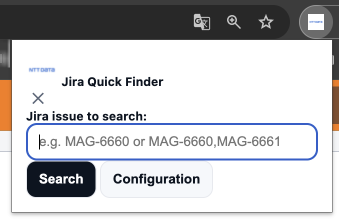
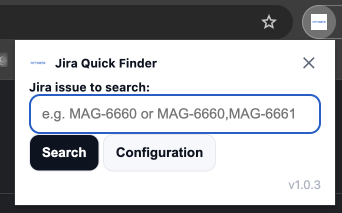
Added version on pop-up and changed the place of close button.

diff --git a/styles.css b/styles.css
@@ -61,12 +61,14 @@ input.input.project {
 }
 .btn.secondary { background: #f6f8fb; color: var(--fg); }
 
+/* Botón de cierre arriba derecha */
 .close {
   background: transparent;
   border: none;
   font-size: 16px;
   cursor: pointer;
   color: var(--muted);
+  line-height: 1;
 }
 
 /* ===== Configuration styles ===== */
@@ -132,6 +134,26 @@ input.input.project {
 
 .save-message.visible {
   opacity: 1;
+}
+
+/* Header del popup */
+.popup-header {
+  display: flex;
+  align-items: center;
+  justify-content: space-between;
+  margin-bottom: 8px;
+}
+
+.brand { display: inline-flex; align-items: center; gap: 8px; }
+.brand img { width: 18px; height: 18px; border-radius: 4px; }
+
+/* Badge de versión abajo derecha */
+.version-badge {
+  margin-top: 6px;
+  text-align: right;
+  font-size: 12px;
+  color: #a8b0bd; /* gris claro */
+  user-select: none;
 }
 
 /* Responsive: en pantallas estrechas, apilar */

diff --git a/popup.js b/popup.js
@@ -58,6 +58,15 @@ chrome.runtime.onMessage.addListener((msg) => {
 document.addEventListener('DOMContentLoaded', () => {
   const input = document.getElementById('issueInput');
 
+    // Versión dinámica en la esquina inferior derecha
+  const versionEl = document.getElementById('versionBadge');
+  try {
+    const { version } = chrome.runtime.getManifest() || {};
+    if (versionEl && version) versionEl.textContent = `v${version}`;
+  } catch (_) {
+    if (versionEl) versionEl.textContent = '';
+  }
+
   document.getElementById('btnOpen').addEventListener('click', async () => {
     await openIssues(parseKeys(input.value));
   });

diff --git a/popup.html b/popup.html
@@ -21,6 +21,7 @@
     <div class="row">
       <button id="btnOpen" class="btn">Search</button>
       <button id="btnOptions" class="btn secondary">Configuration</button>
+      <div class="version-badge" id="versionBadge" aria-hidden="true"></div>
     </div>
   </div>
   <script src="popup.js"></script>
